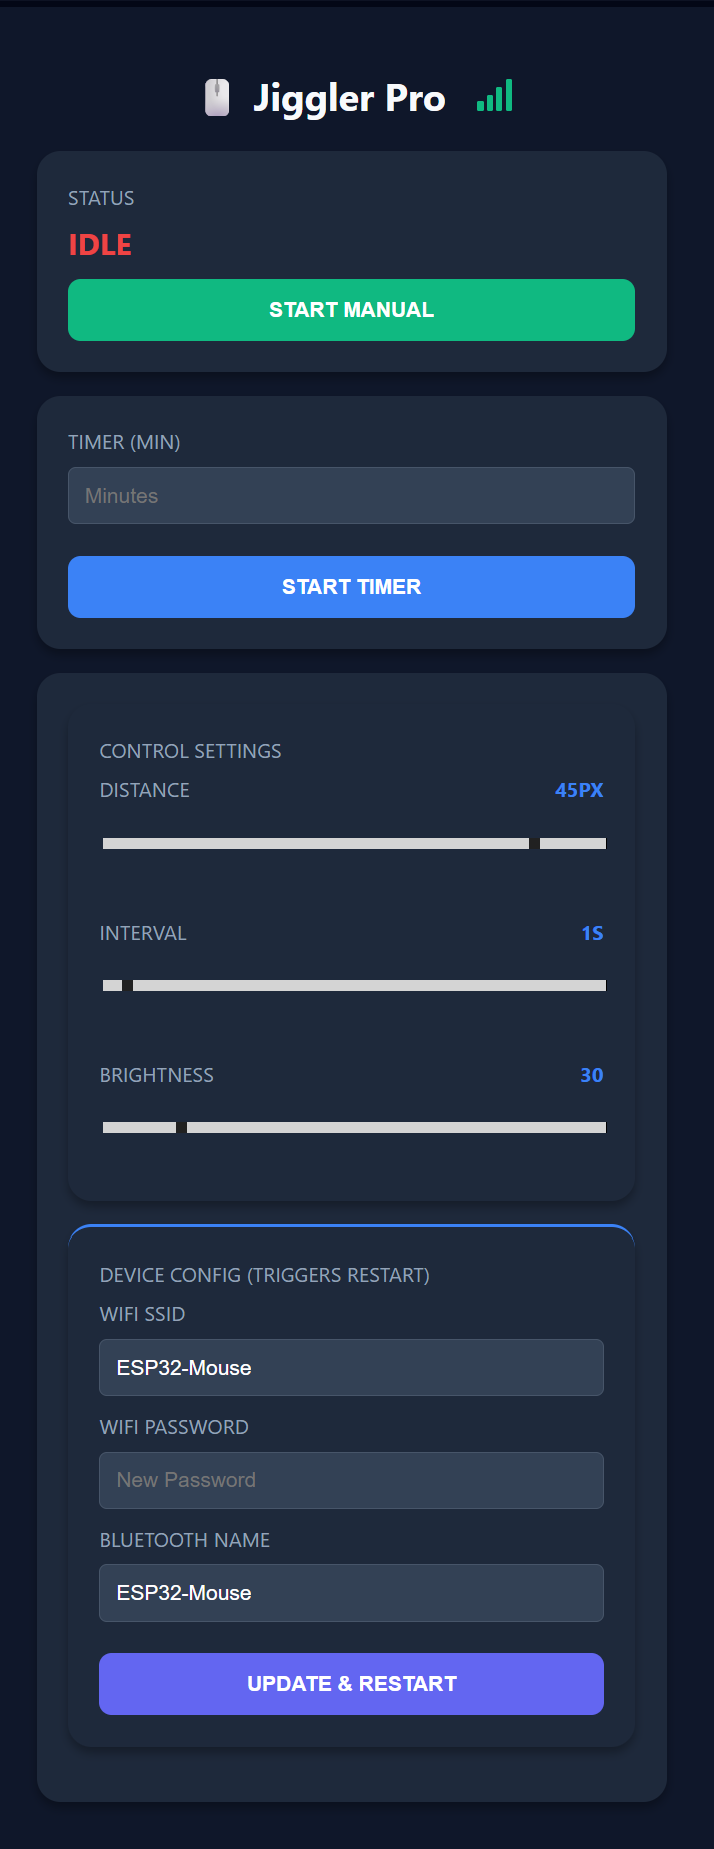
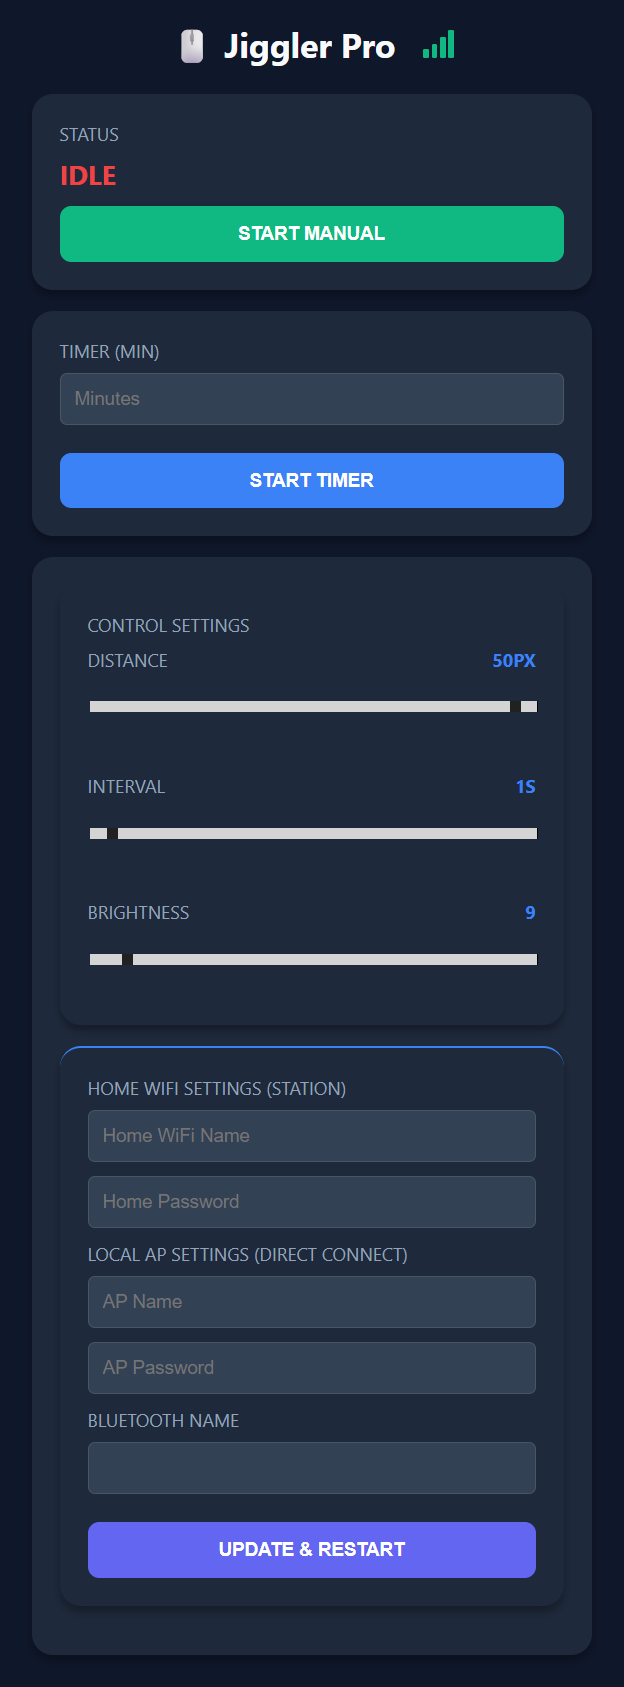
add WIFI_STA and WIFI_AP modes to access config page

diff --git a/index.h b/index.h
@@ -66,11 +66,14 @@ const char PAGE_MAIN[] PROGMEM = R"=====(
     </div>
 
     <div class='card' style="border-top: 2px solid var(--primary);">
-      <span class='label'>Device Config (Triggers Restart)</span>
-      <span class='label'>WiFi SSID</span>
-      <input type='text' id='ssidInput'>
-      <span class='label'>WiFi Password</span>
-      <input type='password' id='passInput' placeholder='New Password'>
+      <span class='label'>Home WiFi Settings (Station)</span>
+      <input type='text' id='staSSIDInput' placeholder='Home WiFi Name'>
+      <input type='password' id='staPassInput' placeholder='Home Password'>
+      
+      <span class='label'>Local AP Settings (Direct Connect)</span>
+      <input type='text' id='apSSIDInput' placeholder='AP Name'>
+      <input type='password' id='apPassInput' placeholder='AP Password'>
+
       <span class='label'>Bluetooth Name</span>
       <input type='text' id='btInput'>
       <button onclick='saveConfig()' class='btn btn-primary' style="background: #6366f1;">UPDATE & RESTART</button>
@@ -100,13 +103,14 @@ const char PAGE_MAIN[] PROGMEM = R"=====(
     }
 
     function saveConfig() {
-      const ssid = document.getElementById('ssidInput').value;
-      const pass = document.getElementById('passInput').value;
+      const staSSID = document.getElementById('staSSIDInput').value;
+      const staPass = document.getElementById('staPassInput').value;
+      const apSSID = document.getElementById('apSSIDInput').value;
+      const apPass = document.getElementById('apPassInput').value;
       const bt = document.getElementById('btInput').value;
-      if(pass.length > 0 && pass.length < 8) { alert("WiFi Password min 8 chars!"); return; }
-      if(confirm("Device will restart. Continue?")) {
-        fetch(`/updateConfig?ssid=${ssid}&pass=${pass}&bt=${bt}`).then(() => alert("Restarting..."));
-      }
+      
+      fetch(`/updateConfig?staSSID=${staSSID}&staPass=${staPass}&apSSID=${apSSID}&apPass=${apPass}&bt=${bt}`)
+        .then(() => alert("Restarting..."));
     }
 
     function toggleJiggler() { active = !active; fetch('/toggle').then(() => updateUI()); }
@@ -129,14 +133,21 @@ const char PAGE_MAIN[] PROGMEM = R"=====(
       fetch('/status').then(r => r.json()).then(data => {
         active = data.active;
         updateRSSI(data.rssi);
-        document.getElementById('distSlider').value = data.move;
+
+        updateValue('distSlider',  data.move);
         updateLabel('distVal', data.move + 'px');
-        document.getElementById('intSlider').value = data.interval;
-        updateValue('ssidInput',  data.ssid);
-        updateValue('btInput',  data.btname);
+        updateValue('intSlider',  data.interval);
         updateLabel('intVal', data.interval + 's');
-        document.getElementById('brightSlider').value = data.bright;
+        updateValue('brightSlider',  data.bright);
         updateLabel('brightVal', data.bright);
+
+        updateValue('staSSIDInput',  data.staSSID);
+        updateValue('staPassInput',  data.staPass);
+        updateValue('apSSIDInput',  data.apSSID);
+        updateValue('apPassInput',  data.apPass);
+        updateValue('btInput',  data.btname);
+        
+
         if(data.timerRemaining > 0) { timerEnd = Date.now() + data.timerRemaining; }
         updateUI();
       });

diff --git a/README.md b/README.md
@@ -7,27 +7,34 @@ This project turns an ESP32-S3 into a Bluetooth HID mouse that moves automatical
 </p>
 
 ## 🌟 Features
-* **Dual-Mode**: Works as a Bluetooth Mouse and a Wi-Fi Access Point simultaneously.
-* **Web Dashboard**: Control everything via browser (192.168.4.1) with no page reloads.
-* **Custom Identity**: Change the **Bluetooth Name**, **Wi-Fi SSID**, and **Password** directly on the web page.
-* **Timer**: Set a countdown in minutes to stop the movement automatically.
-* **Adjustable Settings**: 
-    * **Distance**: How far the cursor moves (1px to 50px).
-    * **Interval**: Time between movements (1s to 60s).
-    * **Brightness**: Control the onboard RGB LED intensity.
-* **Memory**: Saves all your configurations automatically.
-* **RGB Status**: 
-    * 🔴 **Blinking Red**: Searching for Bluetooth.
-    * ⚪ **Dim Gray**: Connected and waiting.
-    * 🟢 **Green Blink**: Moving mouse.
+* **Smart Wi-Fi Connectivity**: 
+    * **Station Mode**: Connects to your home/office Wi-Fi for easy access.
+    * **AP Mode (Fallback)**: If home Wi-Fi is unavailable, it creates its own hotspot (192.168.4.1) after 30 seconds.
+* **Web Dashboard**: Web interface to control everything.
+* **Full Customization**: Update **Bluetooth Name**, **Home Wi-Fi (STA)**, and **Local Hotspot (AP)** credentials via web.
+* **Countdown Timer**: Set a duration in minutes; the device stops automatically when time is up.
+* **Real-time Adjustments**: 
+    * **Distance**: Pixel-perfect control of cursor movement (1px to 50px).
+    * **Interval**: Set frequency of movement (1s to 60s).
+    * **LED Brightness**: Adjust the intensity of the onboard RGB indicator.
+* **Persistent Memory**: All settings (SSIDs, Passwords, and Timings) are saved to NVS and survive restarts.
+* **Visual RGB Status**: 
+    * 🔵 **Blinking Blue**: Attempting to connect to Home Wi-Fi.
+    * 🔴 **Blinking Red**: Waiting for Bluetooth pairing.
+    * ⚪ **Dim Gray**: Bluetooth connected & Standby.
+    * 🟢 **Green Flash**: Mouse movement executed.
 
 ---
 
 ## 🛠 Hardware Compatibility
 Tested on:
+---
 * **Board**: ESP32-S3 DevKitC-1 (**N16R16 variant**)
 * **Flash/PSRAM**: 16MB / 16MB
 * **RGB LED**: Internal Pin 48
+---
+
+* **Board**: ESP32-S3 Supermini
 
 ---
 
@@ -45,8 +52,10 @@ To handle Bluetooth HID, you need specific libraries:
 3. **NeoPixel**:
    * Search for **"Adafruit NeoPixel"** in the Library Manager and install it.
 
-### 2. Board Settings (Dev Kit N16R16)
+### 2. Board Settings
 Configure your Arduino IDE under **Tools**:
+
+**Dev Kit N16R16**
 * **Board**: "ESP32S3 Dev Module"
 * **USB CDC On Boot**: "Enabled"
 * **Flash Mode**: "QIO 80MHz"
@@ -61,11 +70,26 @@ Configure your Arduino IDE under **Tools**:
 ---
 
 ## 📱 How to Use
-1. Power the ESP32 via USB.
-2. Connect your phone to Wi-Fi: **"ESP32-Mouse-Config"** (Pass: `12345678`).
-3. Open `192.168.4.1` in your mobile browser.
-4. Pair your PC's Bluetooth with the device (default: **"ESP32-MouseJiggler"**).
-5. Start the jiggler from the web interface.
+
+### 1. Power & Connection
+* **Power up**: Plug the ESP32 into any USB power source.
+* **First Time Setup**: 
+    1. On your phone, look for the Wi-Fi network **"ESP32-Mouse-Config"** (Pass: `12345678`).
+    2. Open your browser and go to `192.168.4.1`.
+    3. Enter your **Home Wi-Fi** credentials in the "Station Settings" section and click **Update**.
+* **Daily Use**: Once configured, the device will automatically join your Home Wi-Fi. You can access the dashboard at:
+    * **http://jiggler.local** (if working on your machine)
+    * Or the local IP shown in the Arduino Serial Monitor.
+
+### 2. Bluetooth Pairing
+* On your PC, go to Bluetooth settings and "Add Device".
+* Select **"ESP32-MouseJiggler"** (or the custom name you set).
+* The RGB LED will turn **Dim Gray** once paired and connected.
+
+### 3. Jiggling
+* Open the Web Dashboard.
+* Adjust the distance and interval as needed.
+* Click **START MANUAL** or set a **Timer** for automatic shutdown.
 
 ---
 
